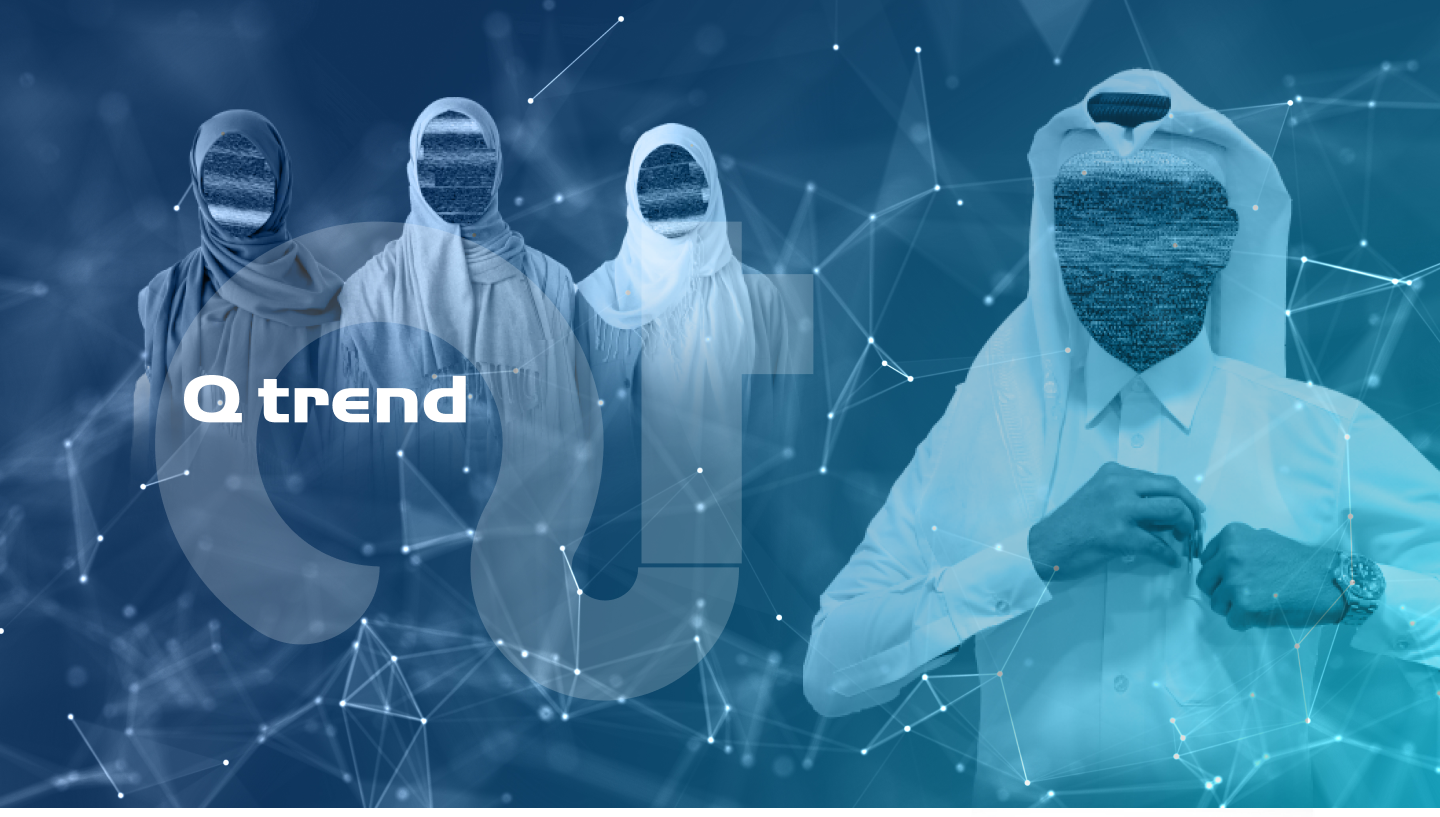
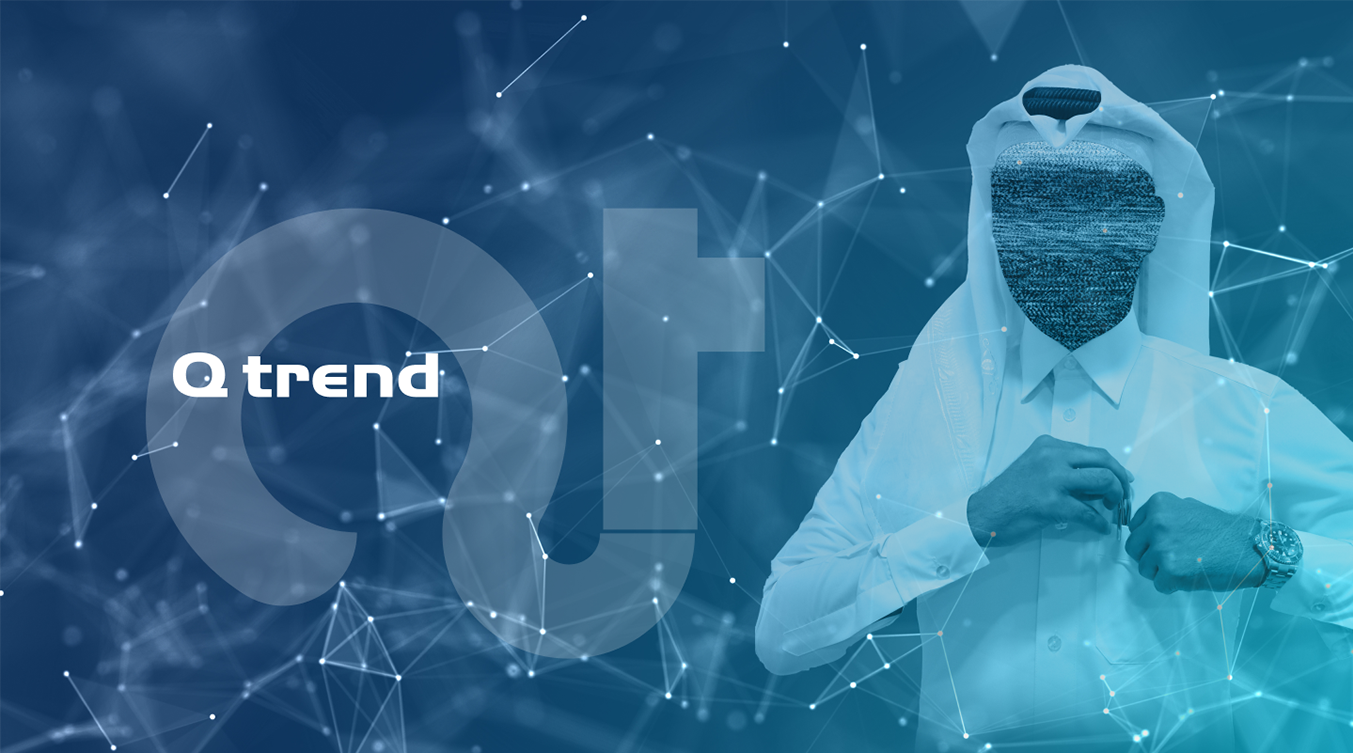
ASDA

diff --git a/src/app/page.js b/src/app/page.js
@@ -20,10 +20,11 @@ const Page = () => {
       <NavBar />
       <div className='Home'>
 
-        <img src="../HomeBG.png" alt="Image" />
+        <img src="../HOMEBG_GIF.gif" alt="Image" />
+
       </div>
       <div className='Home2'>
-        <img src="../HomeBG23.png" alt="Image" />
+          <img src="../HomeBG23.png" alt="Image" />
         <div className='Home2_Contain'>
           <div className='Home2_Text'>
             <h2>Welcome</h2>

diff --git a/src/app/meet_us/page.js b/src/app/meet_us/page.js
@@ -1,9 +1,18 @@
+import NavBar from '@/Components/NavBar'
 import React from 'react'
 
 function MeetUs() {
   return (
-    <div className="MeetUs">
-      
+    <div className='MeetUs'>
+      <NavBar/>
+      <div className='MeetUs_BG'>
+      <img alt='' src='../MeatUS/MeatUS_BG.png'/>
+      </div>
+      <div className='gradient_1'> 
+      <img  alt='' src='../MeatUS/gradient_1.png'/>
+
+      </div>
+
     </div>
   )
 }

diff --git a/src/Styles/App/Import.scss b/src/Styles/App/Import.scss
@@ -6,4 +6,4 @@
 @import '../Home/Services_Social.scss';
 @import '../Home/Home3.scss';
 @import '../Home/Home4.scss';
-@import'../Utils/Footer.scss'
+@import'../Utils/Footer.scss';

diff --git a/src/Styles/Home/Home.scss b/src/Styles/Home/Home.scss
@@ -1,4 +1,9 @@
-
+.Gif{
+    position: absolute;
+    z-index: 999999999;
+    top: 10vw;
+    left: 5vw;
+}
 .Home,.Home2{
     max-width: 100vw;
     position: relative;

diff --git a/src/Styles/App/App.scss b/src/Styles/App/App.scss
@@ -16,3 +16,10 @@ a {
 button,svg{
     cursor: pointer;
 }
+.MeetUs_BG{
+    position: absolute;
+}
+.gradient_1{
+    position: absolute;
+    bottom: 0;
+}
